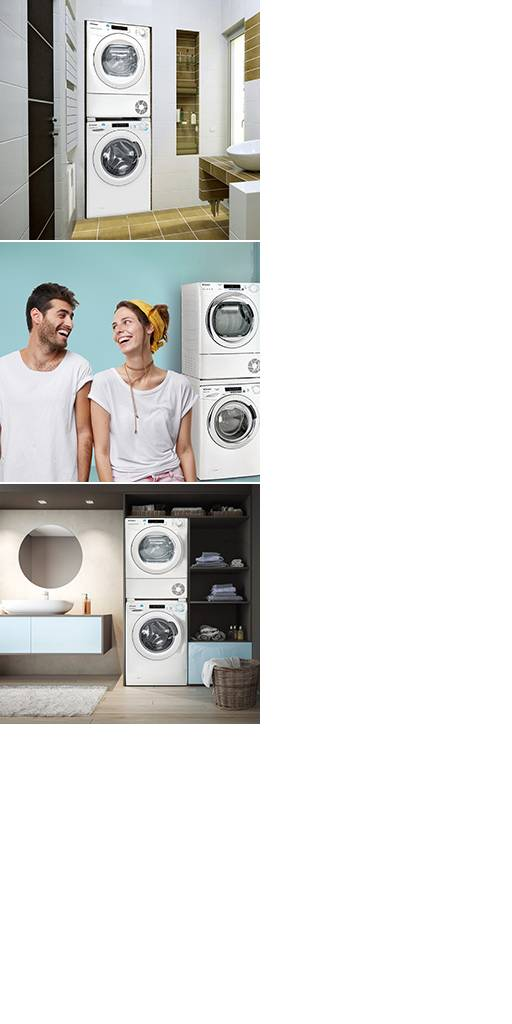
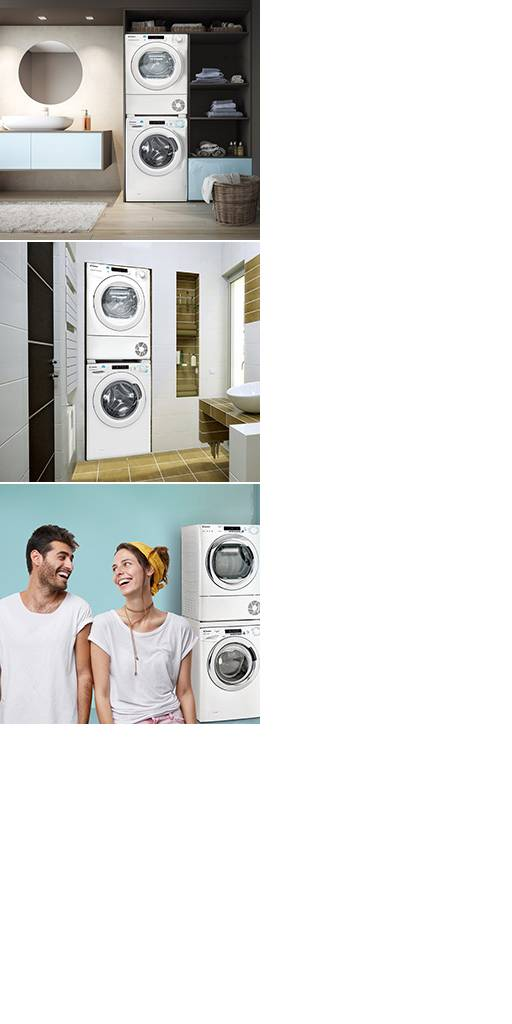
123

diff --git a/banners/candy_0315/adsmart/100pcx240/100pcx240.js b/banners/candy_0315/adsmart/100pcx240/100pcx240.js
@@ -7,7 +7,7 @@ var loadedGoogleCount = 0;
 var gFontsUpdateCacheList = [];
 var tFontsUpdateCacheList = [];
 lib.ssMetadata = [
-		{name:"100pcx240_atlas_NP_", frames: [[0,484,260,240],[0,0,260,240],[0,242,260,240]]}
+		{name:"100pcx240_atlas_NP_", frames: [[0,0,260,240],[0,242,260,240],[0,484,260,240]]}
 ];
 
 
@@ -1445,15 +1445,16 @@ p.nominalBounds = new cjs.Rectangle(-80.5,-96.8,175,190);
 			var wdt = stage.canvas.width;
 			var hgt = stage.canvas.height;
 			
-		
-		
-			
 			
 			bg.x = 0;
 			bg.scaleX = wdt/400;
 		
 			legal.x = 5;
 		
+			pics.y = 120;
+			text.y = 120;
+			bg.y = 120;
+			
 		
 			if (wdt<500){
 				text.scaleX = 0.6;
@@ -1466,6 +1467,7 @@ p.nominalBounds = new cjs.Rectangle(-80.5,-96.8,175,190);
 				logo.y = 180;
 				
 				pics.x = wdt-80;
+				
 				
 			} else if (wdt<700){
 				text.scaleX = 0.8;
@@ -1511,28 +1513,28 @@ p.nominalBounds = new cjs.Rectangle(-80.5,-96.8,175,190);
 	// legal
 	this.legal = new lib.dfgdfggg();
 	this.legal.parent = this;
-	this.legal.setTransform(8.1,222.7);
+	this.legal.setTransform(5,222.7);
 
 	this.timeline.addTween(cjs.Tween.get(this.legal).wait(396));
 
 	// logo
 	this.logo = new lib.ClipGroup_8();
 	this.logo.parent = this;
-	this.logo.setTransform(543.8,120,1.3,1.3);
+	this.logo.setTransform(543.8,-111,1.3,1.3);
 
 	this.timeline.addTween(cjs.Tween.get(this.logo).wait(396));
 
 	// pics
 	this.pics = new lib.pics();
 	this.pics.parent = this;
-	this.pics.setTransform(263.6,117.9);
+	this.pics.setTransform(263.6,-143.1);
 
 	this.timeline.addTween(cjs.Tween.get(this.pics).wait(396));
 
 	// text
 	this.text = new lib.main();
 	this.text.parent = this;
-	this.text.setTransform(-59.7,110.1);
+	this.text.setTransform(-59.7,-150.9);
 
 	this.timeline.addTween(cjs.Tween.get(this.text).wait(396));
 
@@ -1544,7 +1546,7 @@ p.nominalBounds = new cjs.Rectangle(-80.5,-96.8,175,190);
 	this.timeline.addTween(cjs.Tween.get(this.bg).wait(396));
 
 }).prototype = p = new cjs.MovieClip();
-p.nominalBounds = new cjs.Rectangle(-15.7,120,827.2,301.1);
+p.nominalBounds = new cjs.Rectangle(-15.7,-120,827.2,480);
 // library properties:
 lib.properties = {
 	width: 400,

diff --git a/banners/candy_0315/adsmart/100pcx240/index2.html b/banners/candy_0315/adsmart/100pcx240/index2.html
@@ -106,7 +106,7 @@ function handleComplete(evt) {
 </head>
 <body onload="init();" style="background-color:#D4D4D4;margin:0px;padding:0px;">
 <a href="%reference%" target="%target%">    
-	<canvas id="canvas" width="400" height="240" style="background-color:rgba(255, 255, 255, 1.00);border:1px black solid; box-sizing:border-box;margin:0px;padding:0px;"></canvas>    
+	<canvas id="canvas" width="400" height="240" style="background-color:#ECF1F6;border:1px black solid; box-sizing:border-box;margin:0px;padding:0px;"></canvas>    
 </a>
 </body>
 </html>

diff --git a/banners/candy_0315/adsmart/100pcx240/index_.html b/banners/candy_0315/adsmart/100pcx240/index_.html
@@ -108,7 +108,7 @@ function handleComplete(evt) {
 <div class="button" onclick="return ar_callLink( {target: '_blank'} );">
 <a href="%reference%" target="%target%">
     
-    <canvas id="canvas" width="400" height="240" style="background-color:rgba(255, 255, 255, 1.00);border:1px black solid; box-sizing:border-box;margin:0px;padding:0px;"></canvas>
+    <canvas id="canvas" width="400" height="240" style="background-color:#ECF1F6;border:1px black solid; box-sizing:border-box;margin:0px;padding:0px;"></canvas>
     
 </a>
 </div>  
